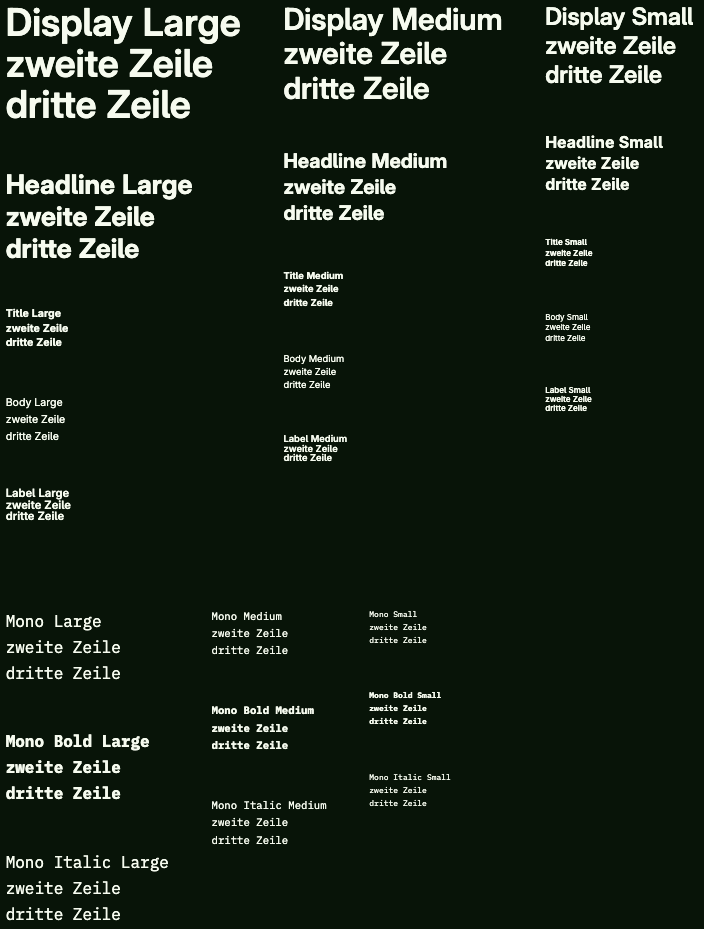
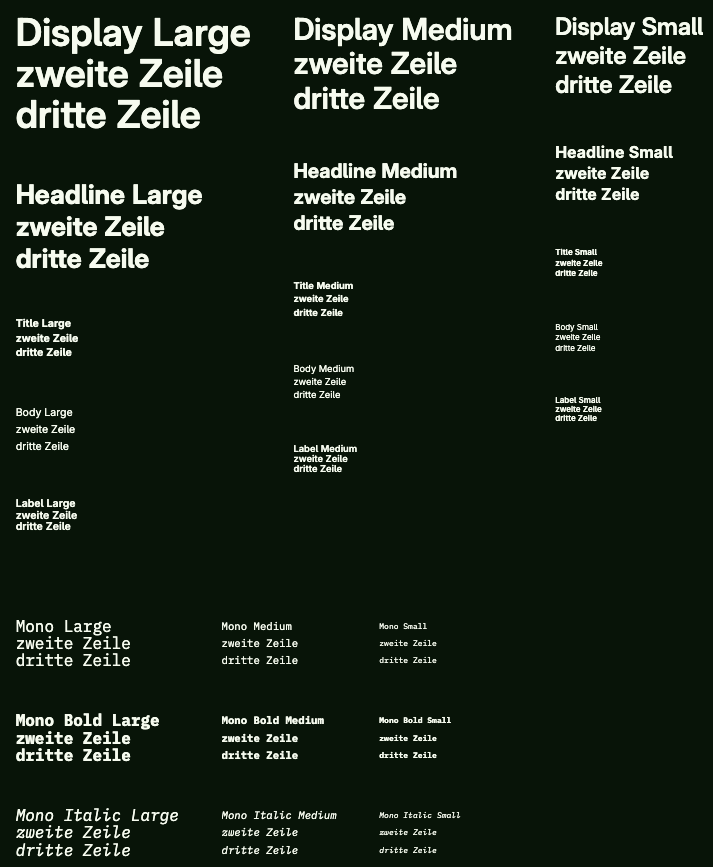
feat: added font definitions for Vue part

diff --git a/web/vuejs/src/assets/css/typography.css b/web/vuejs/src/assets/css/typography.css
@@ -9,12 +9,168 @@
 		'calt' 1,
 		'tnum' 1,
 		'frac' 1;
-	line-height: 1.625;
 }
+
+/* Font definitions in accordance with WDYNAGO-218 */
 
 .font-display-large {
 	font-family: InterVariable, sans-serif;
 	font-size: 3.5625rem;
 	font-weight: 600;
-	line-height: 3.875;
+	line-height: 3.875rem;
+}
+
+.font-display-medium {
+	font-family: InterVariable, sans-serif;
+	font-size: 2.8125rem;
+	font-weight: 600;
+	line-height: 3.25rem;
+}
+
+.font-display-small {
+	font-family: InterVariable, sans-serif;
+	font-size: 2.25rem;
+	font-weight: 600;
+	line-height: 2.75rem;
+}
+
+.font-headline-large {
+	font-family: InterVariable, sans-serif;
+	font-size: 2.5rem;
+	font-weight: 700;
+	line-height: 3rem;
+}
+
+.font-headline-medium {
+	font-family: InterVariable, sans-serif;
+	font-size: 1.875rem;
+	font-weight: 700;
+	line-height: 2.4375rem;
+}
+
+.font-headline-small {
+	font-family: InterVariable, sans-serif;
+	font-size: 1.5rem;
+	font-weight: 700;
+	line-height: 1.9375rem;
+}
+
+.font-title-large {
+	font-family: InterVariable, sans-serif;
+	font-size: 1rem;
+	font-weight: 700;
+	line-height: 1.375rem;
+}
+
+.font-title-medium {
+	font-family: InterVariable, sans-serif;
+	font-size: 0.875rem;
+	font-weight: 700;
+	line-height: 1.25rem;
+}
+
+.font-title-small {
+	font-family: InterVariable, sans-serif;
+	font-size: 0.75rem;
+	font-weight: 700;
+	line-height: 1rem;
+}
+
+.font-body-large {
+	font-family: InterVariable, sans-serif;
+	font-size: 1rem;
+	font-weight: 400;
+	line-height: 1.625rem;
+}
+
+.font-body-medium {
+	font-family: InterVariable, sans-serif;
+	font-size: 0.875rem;
+	font-weight: 400;
+	line-height: 1.25rem;
+}
+
+.font-body-small {
+	font-family: InterVariable, sans-serif;
+	font-size: 0.75rem;
+	font-weight: 400;
+	line-height: 1rem;
+}
+
+.font-label-large {
+	font-family: InterVariable, sans-serif;
+	font-size: 1rem;
+	font-weight: 600;
+	line-height: 1.0625rem;
+}
+
+.font-label-medium {
+	font-family: InterVariable, sans-serif;
+	font-size: 0.875rem;
+	font-weight: 600;
+	line-height: 0.9375rem;
+}
+
+.font-label-small {
+	font-family: InterVariable, sans-serif;
+	font-size: 0.75rem;
+	font-weight: 600;
+	line-height: 0.8125rem;
+}
+
+.font-mono-large {
+	font-family: 'IBM Plex Mono', sans-serif;
+	font-size: 1.5rem;
+	font-weight: 400;
+}
+
+.font-mono-medium {
+	font-family: 'IBM Plex Mono', sans-serif;
+	font-size: 1rem;
+	font-weight: 400;
+}
+
+.font-mono-small {
+	font-family: 'IBM Plex Mono', sans-serif;
+	font-size: 0.75rem;
+	font-weight: 400;
+}
+
+.font-mono-bold-large {
+	font-family: 'IBM Plex Mono', sans-serif;
+	font-size: 1.5rem;
+	font-weight: 700;
+}
+
+.font-mono-bold-medium {
+	font-family: 'IBM Plex Mono', sans-serif;
+	font-size: 1rem;
+	font-weight: 700;
+}
+
+.font-mono-bold-small {
+	font-family: 'IBM Plex Mono', sans-serif;
+	font-size: 0.75rem;
+	font-weight: 700;
+}
+
+.font-mono-italic-large {
+	font-family: 'IBM Plex Mono', sans-serif;
+	font-style: italic;
+	font-size: 1.5rem;
+	font-weight: 400;
+}
+
+.font-mono-italic-medium {
+	font-family: 'IBM Plex Mono', sans-serif;
+	font-style: italic;
+	font-size: 1rem;
+	font-weight: 400;
+}
+
+.font-mono-italic-small {
+	font-family: 'IBM Plex Mono', sans-serif;
+	font-style: italic;
+	font-size: 0.75rem;
+	font-weight: 400;
 }

diff --git a/web/vuejs/src/shared/proto/nprotoc_gen.ts b/web/vuejs/src/shared/proto/nprotoc_gen.ts
@@ -1537,10 +1537,8 @@ function writeTypeHeaderFontStyle(dst: BinaryWriter): void {
 }
 // companion enum containing all defined constants for FontStyle
 export enum FontStyleValues {
-	// A 0 represents something which was issued without any user interaction, which means by own-initiative.
-	Unsolicited = 0,
-	Normal = 1,
-	Italic = 2,
+	Normal = 0,
+	Italic = 1,
 }
 
 // RootViewID is a unique address for a specific view factory, e.g. my/component/path. This is typically a page. Even though this looks like an URI, it is not. Especially, there are no path parameters or query parameters.

diff --git a/web/vuejs/src/components/shared/font.ts b/web/vuejs/src/components/shared/font.ts
@@ -36,7 +36,7 @@ export function fontCSS(font?: Font): string[] {
 	if (font.size) {
 		styles.push(`font-size: ${font.size}`);
 	}
-	
+
 	if (font.lineHeight) {
 		styles.push(`line-height: ${font.lineHeight}`);
 	}

diff --git a/presentation/ui/font.go b/presentation/ui/font.go
@@ -34,6 +34,7 @@ func (f Font) ora() proto.Font {
 	}
 }
 
+// Font definitions in accordance with WDYNAGO-218
 var (
 	// DisplayLarge is primarily meant for large stylistic text like in hero or header elements
 	DisplayLarge = Font{
@@ -136,7 +137,7 @@ var (
 	// LabelLarge is primarily meant for texts in buttons, menus, ...
 	LabelLarge = Font{
 		Name:       DefaultFontName,
-		Size:       "1.0625rem",
+		Size:       "1rem",
 		Weight:     DisplayAndLabelFontWeight,
 		LineHeight: "1.0625rem",
 	}
@@ -146,7 +147,7 @@ var (
 		Name:       DefaultFontName,
 		Size:       "0.875rem",
 		Weight:     DisplayAndLabelFontWeight,
-		LineHeight: "0.875rem",
+		LineHeight: "0.9375rem",
 	}
 
 	// LabelSmall is primarily meant for texts in buttons, menus, ...
@@ -202,6 +203,7 @@ var (
 	// MonoItalicLarge is primarily meant for monospaced font e.g. in code blocks
 	MonoItalicLarge = Font{
 		Name:   MonoFontName,
+		Style:  ItalicFontStyle,
 		Size:   "1.5rem",
 		Weight: MonoItalicFontWeight,
 	}
@@ -209,6 +211,7 @@ var (
 	// MonoItalicMedium is primarily meant for monospaced font e.g. in code blocks
 	MonoItalicMedium = Font{
 		Name:   MonoFontName,
+		Style:  ItalicFontStyle,
 		Size:   "1rem",
 		Weight: MonoItalicFontWeight,
 	}
@@ -216,6 +219,7 @@ var (
 	// MonoItalicSmall is primarily meant for monospaced font e.g. in code blocks
 	MonoItalicSmall = Font{
 		Name:   MonoFontName,
+		Style:  ItalicFontStyle,
 		Size:   "0.75rem",
 		Weight: MonoItalicFontWeight,
 	}

diff --git a/presentation/proto/protonc_gen.go b/presentation/proto/protonc_gen.go
@@ -1531,10 +1531,8 @@ func (v *ErrorOccurred) read(r *BinaryReader) error {
 type FontStyle uint64
 
 const (
-	// A 0 represents something which was issued without any user interaction, which means by own-initiative.
-	Unsolicited FontStyle = 0
-	Normal      FontStyle = 1
-	Italic      FontStyle = 2
+	Normal FontStyle = 0
+	Italic FontStyle = 1
 )
 
 func (v *FontStyle) write(r *BinaryWriter) error {
